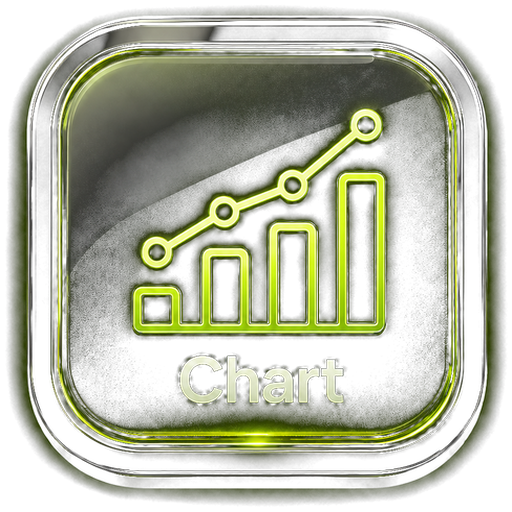
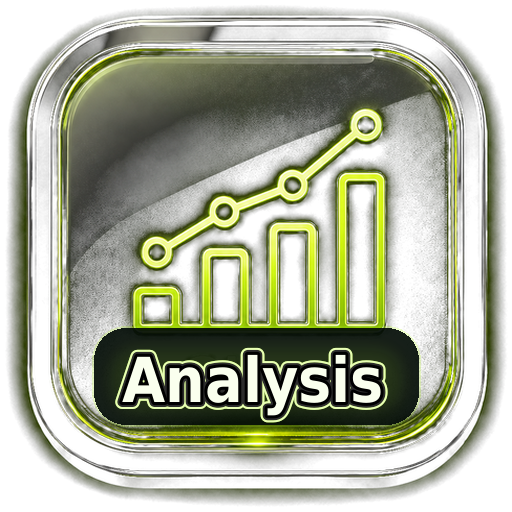
patch: broke_patch_v59_63_14_home_action_nav_polish

Changed region(s): [[0.1562, 0.625, 0.8438, 0.8438]]

diff --git a/app/page.tsx b/app/page.tsx
@@ -18294,6 +18294,14 @@ function DashboardScreen({
         />
       )}
 
+      <HomeTrackLeakCard
+        settings={settings}
+        summary={summary}
+        onQuickLeak={onQuickLeak}
+        onOpenFullTrack={onOpenAdd}
+        onOpenAnalysis={onOpenChart}
+      />
+
       <details
         open
         className="home-compact-details home-wallet-snapshot-card home-collapsed-section"
@@ -18432,14 +18440,6 @@ function DashboardScreen({
         </div>
       </details>
 
-      <HomeTrackLeakCard
-        settings={settings}
-        summary={summary}
-        onQuickLeak={onQuickLeak}
-        onOpenFullTrack={onOpenAdd}
-        onOpenAnalysis={onOpenChart}
-      />
-
       <details className="home-compact-details home-focus-details home-collapsed-section">
         <summary className="home-compact-summary home-focus-summary">
           <div>
@@ -18538,6 +18538,16 @@ function DashboardScreen({
                 shareInitData={telegram.isTelegram ? telegram.initData : ""}
               />
             </details>
+            <details className="home-nested-details">
+              <summary>
+                <div>
+                  <span>Smart Insight</span>
+                  <small>Wallet signals and tomorrow’s next move.</small>
+                </div>
+                <b>{walletInsights.length} signals</b>
+              </summary>
+              <WalletInsightsPanel insights={walletInsights} />
+            </details>
           </div>
         )}
       </details>
@@ -18547,8 +18557,7 @@ function DashboardScreen({
           <div>
             <span>More tools</span>
             <small>
-              Growth, routines, recent expenses, sync, and links to deeper
-              reports.
+              Growth, routines, recent expenses, and sync tools.
             </small>
           </div>
           <b>Optional</b>
@@ -18613,28 +18622,48 @@ function DashboardScreen({
         )}
 
         {isProMode && (
-          <details className="clean-details">
+          <details className="clean-details home-challenges-badges-details">
             <summary>
               <div>
-                <span>Biggest Leak Challenge</span>
-                <small>
-                  Optional 3-day mission built from your real leak pattern.
-                </small>
+                <span>Challenges & Badges</span>
+                <small>Biggest leak mission and progress badges together.</small>
               </div>
               <b>
                 {identityStats.biggestLeakAmount > 0 ? "Ready" : "Needs leak"}
               </b>
             </summary>
-            <BiggestLeakChallengePanel
-              settings={settings}
-              identityStats={identityStats}
-              mission={leakMission}
-              expenses={allExpenses}
-              shareInitData={telegram.isTelegram ? telegram.initData : ""}
-              onStartMission={onStartLeakMission}
-              onResetMission={onResetLeakMission}
-              onOpenAdd={onOpenAdd}
-            />
+            <div className="home-challenges-badges-stack">
+              <section className="home-combined-panel">
+                <div className="home-combined-panel-head">
+                  <span>Biggest Leak Challenge</span>
+                  <b>
+                    {identityStats.biggestLeakAmount > 0
+                      ? "Ready"
+                      : "Needs leak"}
+                  </b>
+                </div>
+                <BiggestLeakChallengePanel
+                  settings={settings}
+                  identityStats={identityStats}
+                  mission={leakMission}
+                  expenses={allExpenses}
+                  shareInitData={telegram.isTelegram ? telegram.initData : ""}
+                  onStartMission={onStartLeakMission}
+                  onResetMission={onResetLeakMission}
+                  onOpenAdd={onOpenAdd}
+                />
+              </section>
+
+              <section className="home-combined-panel">
+                <div className="home-combined-panel-head">
+                  <span>Badges</span>
+                  <b>
+                    {badges.filter((badge) => badge.earned).length}/{badges.length}
+                  </b>
+                </div>
+                <BadgeMiniStrip badges={badges} />
+              </section>
+            </div>
           </details>
         )}
 
@@ -18669,61 +18698,6 @@ function DashboardScreen({
             expenses={routineExpenses}
             onRoutineComplete={onRoutineComplete}
           />
-        </details>
-
-        {isProMode && (
-          <details className="clean-details">
-            <summary>
-              <div>
-                <span>Smart Insights Lab</span>
-                <small>
-                  Signals from leaks, fixed costs, silent pressure, targets, and
-                  currency repair.
-                </small>
-              </div>
-              <b>{walletInsights.length} signals</b>
-            </summary>
-            <WalletInsightsPanel insights={walletInsights} />
-          </details>
-        )}
-
-        {isProMode && (
-          <details className="clean-details">
-            <summary>
-              <span>Badges</span>
-              <b>
-                {badges.filter((badge) => badge.earned).length}/{badges.length}
-              </b>
-            </summary>
-            <BadgeMiniStrip badges={badges} />
-          </details>
-        )}
-
-        <details className="clean-details">
-          <summary>
-            <div>
-              <span>Analysis & reports</span>
-              <small>
-                Charts, patterns, weekly review, and monthly history live in
-                Analysis.
-              </small>
-            </div>
-            <b>Open tab</b>
-          </summary>
-          <section className="first-user-clarity-card compact-analysis-link">
-            <div>
-              <span>Consolidated reports</span>
-              <strong>Use Analysis after tracking a leak.</strong>
-              <p>
-                Home stays focused on wallet status and tracking. Analysis keeps
-                the pressure chart, one fix, pattern lab, weekly review, and
-                monthly history in one place.
-              </p>
-            </div>
-            <button type="button" onClick={onOpenChart}>
-              Open Analysis
-            </button>
-          </section>
         </details>
 
         <details className="clean-details">

diff --git a/app/styles/bottom-nav.css b/app/styles/bottom-nav.css
@@ -1,78 +1,96 @@
-/* ===== V59.63.12 BOTTOM NAV LABELS ===== */
+/* ===== V59.63.14 BOTTOM NAV VISUAL RESTORE ===== */
+.bottom-nav {
+  bottom: 12px;
+  width: min(calc(100% - 12px), 468px);
+  height: 86px;
+  gap: 3px;
+  padding: 6px 7px;
+  border-radius: 27px;
+}
+
 .bottom-nav button {
   min-height: 100%;
-  padding: 3px 0 2px;
-  gap: 2px;
+  padding: 3px 0;
+  gap: 0;
+  border-radius: 20px;
 }
 
 .bottom-nav button img {
-  width: 31px;
-  height: 31px;
+  width: 48px;
+  height: 48px;
   object-fit: contain;
   object-position: center;
   transform: none;
   opacity: 0.9;
-  filter: drop-shadow(0 0 9px rgba(183, 255, 25, 0.2));
+  filter: drop-shadow(0 0 10px rgba(183, 255, 25, 0.22));
 }
 
 .bottom-nav button span {
-  display: block;
-  max-width: 100%;
+  position: absolute;
+  width: 1px;
+  height: 1px;
   overflow: hidden;
-  text-overflow: ellipsis;
+  clip: rect(0 0 0 0);
+  clip-path: inset(50%);
   white-space: nowrap;
-  margin-top: -1px;
-  color: var(--muted);
-  font-size: 8.4px;
-  font-weight: 850;
-  line-height: 1;
-  letter-spacing: -0.035em;
 }
 
 .bottom-nav button.active img {
   opacity: 1;
-  transform: scale(1.08);
-  filter: drop-shadow(0 0 15px rgba(183, 255, 25, 0.55));
-}
-
-.bottom-nav button.active span {
-  color: var(--green);
+  transform: scale(1.1);
+  filter: drop-shadow(0 0 16px rgba(183, 255, 25, 0.6));
 }
 
 .bottom-nav.pro-mode-nav {
-  width: min(calc(100% - 14px), 454px);
-  padding-inline: 4px;
+  width: min(calc(100% - 10px), 468px);
+  padding-inline: 6px;
 }
 
 .bottom-nav.pro-mode-nav button img {
-  width: 28px;
-  height: 28px;
+  width: 44px;
+  height: 44px;
 }
 
-.bottom-nav.pro-mode-nav button span {
-  font-size: 7.6px;
+.bottom-nav.standard-mode-nav {
+  width: min(calc(100% - 16px), 430px);
+}
+
+.bottom-nav.standard-mode-nav button img {
+  width: 49px;
+  height: 49px;
 }
 
 @media (max-width: 430px) {
-  .bottom-nav.pro-mode-nav {
-    width: min(calc(100% - 8px), 410px);
-    padding-inline: 3px;
+  .bottom-nav {
+    width: min(calc(100% - 8px), 420px);
+    height: 82px;
+    padding-inline: 5px;
   }
 
-  .bottom-nav.standard-mode-nav {
-    width: min(calc(100% - 10px), 396px);
+  .bottom-nav.pro-mode-nav {
+    width: min(calc(100% - 6px), 414px);
     padding-inline: 4px;
   }
 
-  .bottom-nav.pro-mode-nav button img,
-  .bottom-nav.standard-mode-nav button img {
-    width: 26px;
-    height: 26px;
-    transform: none;
+  .bottom-nav.standard-mode-nav {
+    width: min(calc(100% - 8px), 398px);
+    padding-inline: 5px;
   }
 
-  .bottom-nav.pro-mode-nav button span,
-  .bottom-nav.standard-mode-nav button span {
-    font-size: 7.1px;
+  .bottom-nav.pro-mode-nav button img {
+    width: 40px;
+    height: 40px;
+  }
+
+  .bottom-nav.standard-mode-nav button img {
+    width: 45px;
+    height: 45px;
+  }
+}
+
+@media (max-width: 370px) {
+  .bottom-nav.pro-mode-nav button img {
+    width: 36px;
+    height: 36px;
   }
 }

diff --git a/app/globals.css b/app/globals.css
@@ -41452,3 +41452,47 @@ html.embedded-app-view .hero h1 {
     min-height: 116px;
   }
 }
+
+/* ===== V59.63.14 HOME ACTION CLEANUP ===== */
+.home-challenges-badges-stack {
+  display: grid;
+  gap: 10px;
+  padding: 0 10px 10px;
+}
+
+.home-combined-panel {
+  display: grid;
+  gap: 10px;
+  padding: 10px;
+  border: 1px solid rgba(183, 255, 25, 0.1);
+  border-radius: 17px;
+  background: rgba(0, 0, 0, 0.14);
+}
+
+.home-combined-panel-head {
+  display: grid;
+  grid-template-columns: minmax(0, 1fr) auto;
+  gap: 8px;
+  align-items: center;
+}
+
+.home-combined-panel-head span {
+  color: var(--text);
+  font-size: 0.86rem;
+  font-weight: 950;
+  line-height: 1.15;
+}
+
+.home-combined-panel-head b {
+  padding: 6px 9px;
+  border-radius: 999px;
+  color: var(--green);
+  background: rgba(183, 255, 25, 0.08);
+  font-size: 0.66rem;
+  font-weight: 950;
+  white-space: nowrap;
+}
+
+.home-challenges-badges-details .badge-mini-strip {
+  margin: 0;
+}